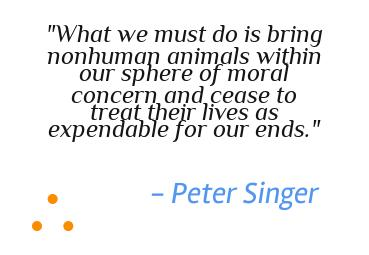
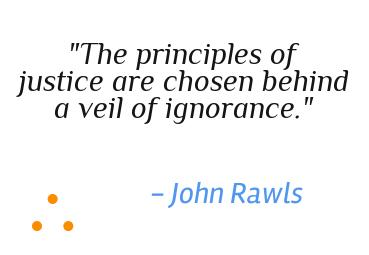
Added daily quote functionality

Changed region(s): [[0.0298, 0.0824, 0.9539, 0.549], [0.4472, 0.7137, 0.8645, 0.8235], [0.8347, 0.4667, 0.8645, 0.4941]]

diff --git a/app.py b/app.py
@@ -3,6 +3,7 @@ from PIL import Image, ImageDraw, ImageFont
 from textwrap import wrap
 import random
 import os
+import time
 from quotes import quotes_original
 from themes import themes
 
@@ -15,8 +16,10 @@ def generate_image():
     Generates an image with a random quote and author
 
     Args:
-        author (str): an author used to filter the quotes
-        theme (str): a theme used to select the background image
+        author (str): an author used to filter the quotes theme
+        (str): a theme used to select the background image
+        daily_quote (bool): a boolean used to get a quote based on the current day, instead of randomly generated each
+        time
 
     Returns:
         image: a generated image with a quote and author
@@ -29,6 +32,13 @@ def generate_image():
 
     inputted_author = request.args.get('author', default=None, type=str)
     inputted_theme = request.args.get('theme', default=None, type=str)
+    daily_quote = request.args.get('daily_quote', default=None, type=bool)
+
+    if daily_quote is True:
+        current_day = int(time.time()) / 86400
+        quote, author = quotes[int(current_day) % len(quotes)]
+    else:
+        quote, author = random.choice(quotes)
 
     inputted_theme = inputted_theme.lower() if inputted_theme is not None else None  # case insensitive
 
@@ -42,7 +52,6 @@ def generate_image():
     theme = themes.get(inputted_theme, themes["default"])
     image_path = theme[0]
 
-    quote, author = random.choice(quotes)  # get the random quote and author from the quoate list
 
     # Load background image
     background_image = Image.open(image_path)
